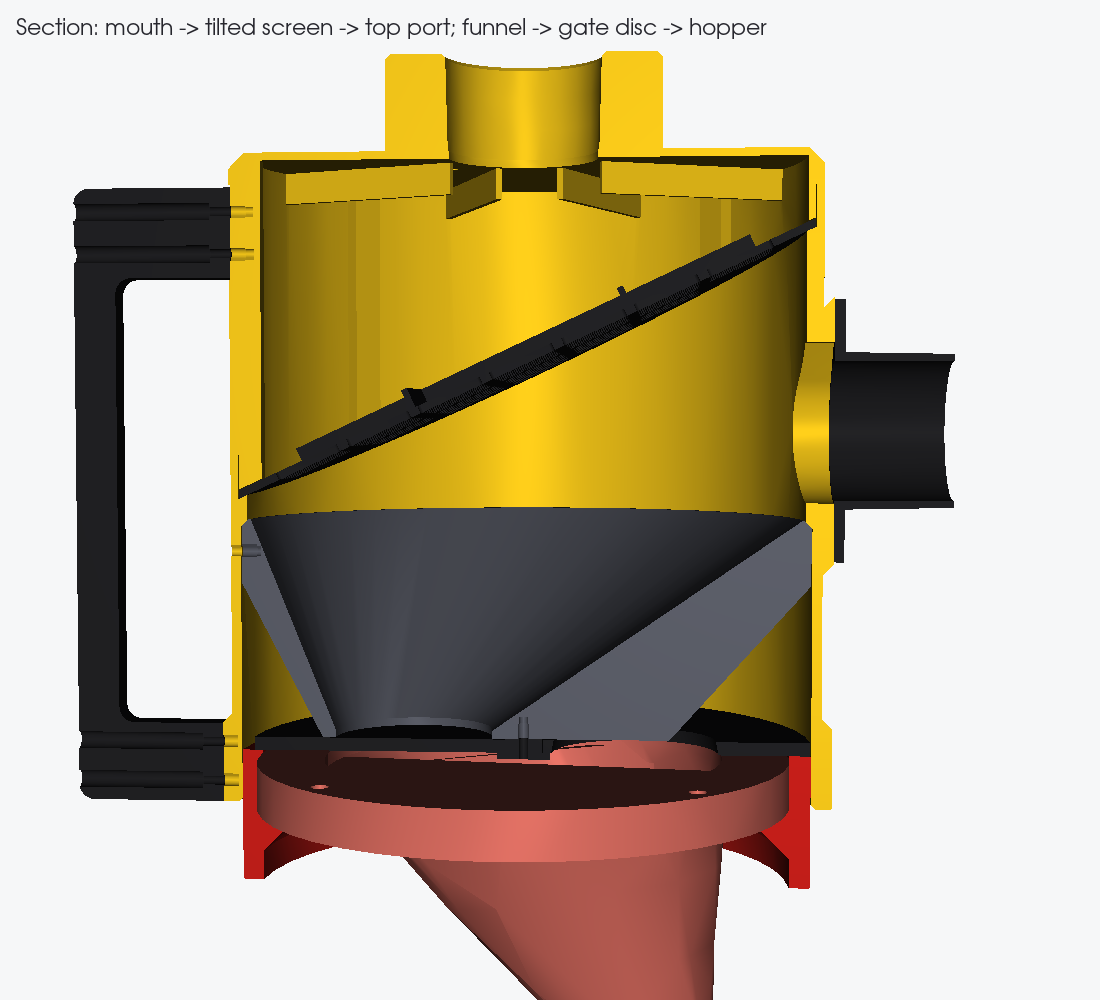
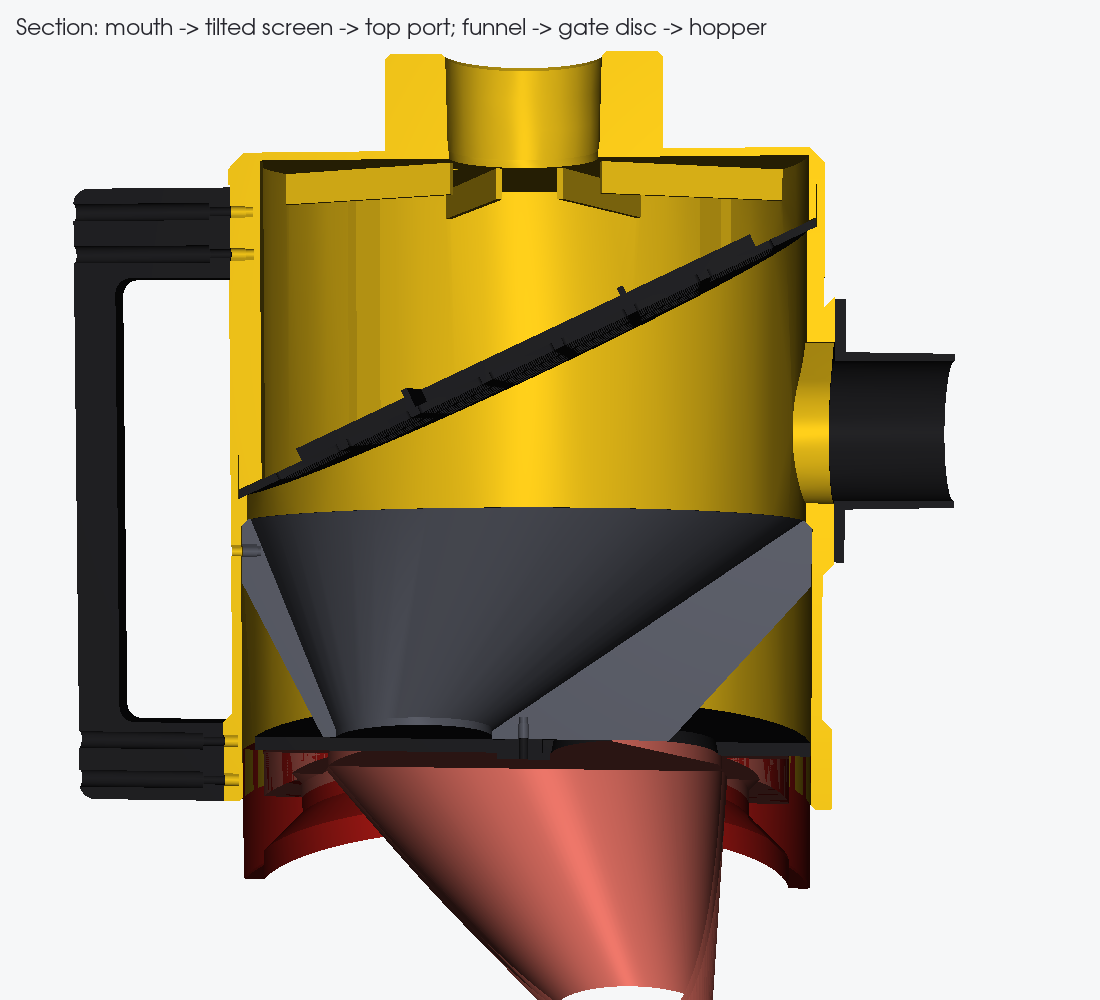
vac: how-it-works animation, mesh-based clearance check
- build_preview.py -> how_it_works.gif: 9 frames cut in half (collect, dock, half
  turn, drop into the hopper).
- The deck's 201_hopper.step is not a valid solid, so OCC booleans against it return
  garbage silently. Added dock.mesh_check (closest surface distances on meshes): pins
  0.40 from the bore walls, disc 1.00 above the hopper ring, shell 0.14 from the stud.
- Section still now cuts the stud and hopper on the mesh.

Claude-Session: https://claude.ai/code/session_01RWaNJC56SzBekscrY2E5XW

Changed region(s): [[0.2164, 0.744, 0.7418, 1.0]]

diff --git a/cad/v14/vac/build_preview.py b/cad/v14/vac/build_preview.py
@@ -1,0 +1,109 @@
+"""How the vacuum canister works: a 9-frame GIF from the real CAD, cut in half along the mouth axis.
+Frames 1-4 collect (in the hand, vac on / off), frames 5-9 feed (on the left stud: dock, half turn, drop, close).
+The loose pieces are plain coloured blocks placed by hand for the picture; nothing here is simulated.
+Run: python3 build_preview.py   -> how_it_works.gif (+ preview_frames/ PNGs)
+"""
+import math, sys
+from pathlib import Path
+import cadquery as cq
+from PIL import Image
+
+HERE = Path(__file__).resolve().parent
+sys.path.insert(0, str(HERE)); sys.path.insert(0, str(HERE.parent))
+import build_vac as b            # noqa: E402
+from common import render        # noqa: E402
+
+Y, K, GREY, HOSE, AIR = (0.96, 0.78, 0.10), (0.13, 0.13, 0.14), (0.36, 0.37, 0.41), (0.55, 0.57, 0.62), (0.25, 0.55, 0.95)
+RED, BLUE, GRN, WHT, ORG = (0.80, 0.12, 0.10), (0.10, 0.35, 0.80), (0.10, 0.55, 0.25), (0.92, 0.92, 0.90), (0.95, 0.50, 0.10)
+CUT = cq.Workplane('XY').box(600, 1200, 1400, centered=(False, True, True))        # removes the x > 0 half
+
+
+def half(s):
+    return s.cut(CUT)
+
+
+def brick(p, size=(16, 32, 10), yaw=0, tilt=0):
+    s = cq.Workplane('XY').box(*size)
+    if tilt: s = s.rotate((0, 0, 0), (1, 0, 0), tilt)
+    if yaw: s = s.rotate((0, 0, 0), (0, 0, 1), yaw)
+    return s.translate(p)
+
+
+def arrow(pts, r=2.5):
+    """air path: thin rods through pts with a cone at the end (kept just behind the cut plane)."""
+    out = None
+    for p0, p1 in zip(pts, pts[1:]):
+        d = cq.Vector(*p1) - cq.Vector(*p0)
+        seg = cq.Workplane(obj=cq.Solid.makeCylinder(r, d.Length, cq.Vector(*p0), d.normalized()))
+        out = seg if out is None else out.union(seg)
+    d = (cq.Vector(*pts[-1]) - cq.Vector(*pts[-2])).normalized()
+    return out.union(cq.Workplane(obj=cq.Solid.makeCone(3 * r, 0.0, 7 * r, cq.Vector(*pts[-1]), d)))
+
+
+def main():
+    sh, fy_lo = b.shell_lower(); fu, _ = b.funnel(); disc = b.gate_disc(); cap = b.pivot_cap()
+    scr, _, _ = b.screen(); ld, fy_hi = b.lid(); port = b.hose_port(); mp = b.mouthpiece(); hd = b.handle(fy_lo, fy_hi)
+    eyes = b.eye(1, b.EYE_CLR, b.EYE_T).union(b.eye(-1, b.EYE_CLR, b.EYE_T))
+    turning = [(sh, Y), (fu, GREY), (scr, K), (ld, Y), (port, Y), (mp, K), (hd, K), (eyes, K)]      # turns with the body
+    held = [(disc, K), (cap, K)]                                                              # stays on the pins
+
+    def canister(turn=0.0, lift=0.0):
+        its = [(half(s.rotate((0, 0, 0), (0, 0, 1), turn) if turn else s).translate((0, 0, lift)), c, 1.0) for s, c in turning]
+        return its + [(half(s).translate((0, 0, lift)), c, 1.0) for s, c in held]
+
+    # machine parts in the canister frame
+    fr, dk = Path('/home/claude/wt_frame5/cad/v14/frame/world'), Path('/home/claude/wt_deck5/cad/v14/deck/world')
+    off = (-b.ORIGIN[0], -b.ORIGIN[1], -b.ORIGIN[2])
+    ld_ = lambda p: cq.Workplane().add(cq.importers.importStep(str(p)).val()).translate(off)
+    # cut on the mesh: the hopper STEP is not a valid solid, so OCC cannot cut it
+    machine = [(b.mesh_half(ld_(fr / '130_stud_ring_left_hopper.step')), (0.78, 0.12, 0.10), 1.0), (b.mesh_half(ld_(dk / '201_hopper.step')), (0.90, 0.45, 0.40), 1.0)]
+    hose = [(half(b.ring(25.0, 28.4, b.ROOF_Z + 4, b.ROOF_Z + 85)), HOSE, 1.0)]
+    wand = [(half(cq.Workplane(obj=cq.Solid.makeCylinder(31.5, 70, cq.Vector(0, b.PAD_Y + 12, b.MOUTH_Z), cq.Vector(0, 1, 0)))
+                  .cut(cq.Workplane(obj=cq.Solid.makeCylinder(28.6, 80, cq.Vector(0, b.PAD_Y + 6, b.MOUTH_Z), cq.Vector(0, 1, 0))))), HOSE, 1.0)]
+    air = [(arrow([(-3, 185, 122), (-3, 60, 122), (-3, 5, 150), (-3, 0, 205), (-3, 0, b.ROOF_Z + 95)]), AIR, 1.0)]
+
+    X = -12    # blocks sit just behind the cut plane
+    pile = [((X, -42, 16), RED, (16, 32, 10), 20, 0), ((X - 20, -30, 26), BLUE, (16, 16, 10), 50, 10), ((X, -62, 30), GRN, (16, 32, 10), 80, 25),
+            ((X - 8, -14, 30), WHT, (16, 16, 10), 10, 30), ((X - 26, -55, 40), ORG, (8, 16, 10), 0, 0), ((X, -38, 40), BLUE, (16, 32, 10), 60, 5),
+            ((X - 10, 8, 44), RED, (16, 16, 10), 30, 34), ((X, -20, 50), GRN, (8, 16, 10), 0, 20)]
+
+    def blocks(lst, turn=0.0, lift=0.0):
+        out = []
+        for p, c, size, yaw, tilt in lst:
+            s = brick(p, size, yaw, tilt)
+            if turn: s = s.rotate((0, 0, 0), (0, 0, 1), turn)
+            out.append((s.translate((0, 0, lift)), c, 1.0))
+        return out
+
+    flying = [((X, 165, 122), RED, (16, 32, 10), 90, 0), ((X, 100, 124), BLUE, (16, 16, 10), 30, 20)]
+    glancing = [((X, -20, 124), RED, (16, 32, 10), 90, 25), ((X, -70, 96), BLUE, (16, 16, 10), 30, 60), ((X, 150, 122), GRN, (8, 16, 10), 0, 0)]
+    stuck = [((X, 20, 148), WHT, (16, 16, 10), 0, 25), ((X, -55, 113), ORG, (8, 16, 10), 0, 25)]
+    falling = [((X, 14, 105), WHT, (16, 16, 10), 20, 50), ((X, -52, 78), ORG, (8, 16, 10), 0, 70)]
+    drop = [((X, 42, -8), RED, (16, 32, 10), 20, 60), ((X - 8, 36, -38), BLUE, (16, 16, 10), 40, 30), ((X - 16, 40, -66), GRN, (16, 32, 10), 70, 70),
+            ((X - 24, 40, -98), WHT, (16, 16, 10), 0, 20), ((X - 28, 40, -128), ORG, (8, 16, 10), 0, 0)]
+    left = [((X, 30, 22), BLUE, (16, 32, 10), 60, 30), ((X - 14, 48, 30), GRN, (8, 16, 10), 0, 20), ((X, 52, 16), RED, (16, 16, 10), 30, 10)]
+
+    frames = [
+        ('1/9  Vac on. Pieces come in through the mouth with the air', canister() + hose + wand + air + blocks(flying), 'hand'),
+        ('2/9  They glance off the tilted screen and drop into the funnel', canister() + hose + wand + air + blocks(glancing) + blocks(pile[:3]), 'hand'),
+        ('3/9  Air leaves through the slots to the hose. A few light pieces cling to the screen', canister() + hose + wand + air + blocks(pile) + blocks(stuck), 'hand'),
+        ('4/9  Vac off: whatever was on the screen falls. Pull the hose and the wand off', canister() + blocks(pile) + blocks(falling), 'hand'),
+        ('5/9  Carry it by the handle and lower it onto the left stud', canister(lift=70) + machine + blocks(pile, lift=70), 'dock'),
+        ('6/9  Turn it until the 4 pins drop into the hopper screw bores. The gate is still shut', canister() + machine + blocks(pile), 'dock'),
+        ('7/9  Turn the body. The disc is held by the pins, so only the body moves (here: quarter turn)', canister(turn=-90) + machine + blocks(pile, turn=-90), 'dock'),
+        ('8/9  Half turn: the body hole is over the disc hole and the pieces drop into the hopper', canister(turn=-180) + machine + blocks(left) + blocks(drop), 'dock'),
+        ('9/9  Empty. Turn it back to close and lift it off', canister() + machine, 'dock'),
+    ]
+    out = HERE / 'preview_frames'; out.mkdir(exist_ok=True)
+    imgs = []
+    for k, (title, items, scene) in enumerate(frames, 1):
+        cam, focal = ((1050, 60, 250), (0, 25, 150)) if scene == 'hand' else ((1000, 60, 200), (0, 10, 85))
+        f = out / f'frame_{k}.png'
+        render(items, f, cam=cam, focal=focal, size=(1100, 900), title=title)
+        imgs.append(Image.open(f).convert('P', palette=Image.ADAPTIVE)); print(f.name)
+    imgs[0].save(HERE / 'how_it_works.gif', save_all=True, append_images=imgs[1:], duration=2600, loop=0)
+    print(HERE / 'how_it_works.gif')
+
+
+if __name__ == '__main__':
+    main()

diff --git a/cad/v14/vac/build_vac.py b/cad/v14/vac/build_vac.py
@@ -416,6 +416,38 @@ def on_bed(s):
     return s.translate((-(b[0] + b[3]) / 2, -(b[1] + b[4]) / 2, -b[2]))
 
 
+def tri_mesh(shape, tol=0.03):
+    import os, tempfile, trimesh
+    fd, p = tempfile.mkstemp(suffix='.stl'); os.close(fd)
+    cq.exporters.export(W(shape), p, tolerance=tol, angularTolerance=0.1)
+    m = trimesh.load(p); os.remove(p)
+    return m
+
+
+def mesh_half(shape, keep_normal=(-1, 0, 0), origin=(0, 0, 0)):
+    """half of a part as vtkPolyData, cut on the mesh. For solids OCC cannot cut: the deck's 201_hopper.step is not a
+    valid solid (isValid() False), so cut/intersect on it return garbage without raising."""
+    import numpy as np, vtk
+    from vtk.util.numpy_support import numpy_to_vtk, numpy_to_vtkIdTypeArray
+    m = tri_mesh(shape, 0.1).slice_plane(plane_origin=origin, plane_normal=keep_normal, cap=False)
+    pts = vtk.vtkPoints(); pts.SetData(numpy_to_vtk(m.vertices.astype(np.float64), deep=True))
+    ca = vtk.vtkCellArray()
+    ca.SetCells(len(m.faces), numpy_to_vtkIdTypeArray(np.hstack([np.full((len(m.faces), 1), 3), m.faces]).astype(np.int64).ravel(), deep=True))
+    pd = vtk.vtkPolyData(); pd.SetPoints(pts); pd.SetPolys(ca)
+    n = vtk.vtkPolyDataNormals(); n.SetInputData(pd); n.SetFeatureAngle(35); n.Update()
+    return n.GetOutput()
+
+
+def mesh_gap(part, target_mesh, z_max=None, z_band=None, n=60000):
+    """closest surface-to-surface distance (mm) from a canister part (machine frame) to a machine part's mesh."""
+    import numpy as np, trimesh
+    pts, _ = trimesh.sample.sample_surface(tri_mesh(part), n)
+    if z_max is not None: pts = pts[pts[:, 2] < z_max]
+    if z_band is not None: pts = pts[np.abs(pts[:, 2] - z_band) < 0.02]
+    if len(pts) == 0: return None
+    return round(float(trimesh.proximity.closest_point(target_mesh, pts)[1].min()), 2)
+
+
 def vol_common(a, b):
     c = a.intersect(b)
     return round(c.val().Volume(), 2) if c.vals() else 0.0
@@ -569,10 +601,20 @@ def main():
         mach.append((W(cq.importers.importStep(str(dk / '201_hopper.step')).val()), (0.85, 0.2, 0.2), 1.0))
         items = mach + [(s.translate(ORIGIN), c_of(n), 1.0) for n, s in body]
         render(items, HERE / 'still_1_docked.png', cam=(-1150, 950, 1200), focal=(-150, 0, 760), title=f'Docked on the left stud: machine + canister = {STUD_TOP + top_z:.0f} mm tall')
+        # independent of OCC booleans (they are not reliable on the hopper solid): closest distances on the meshes
+        hop_s, stud_s = cq.importers.importStep(str(dk / '201_hopper.step')).val(), cq.importers.importStep(str(fr / '130_stud_ring_left_hopper.step')).val()
+        hm, sm = tri_mesh(hop_s), tri_mesh(stud_s)
+        dw, sw = disc.translate(ORIGIN), sh.translate(ORIGIN)
+        res['dock']['mesh_check'] = {
+            'hopper_step_is_valid_solid': bool(hop_s.isValid()),
+            'pins_to_hopper_bore_wall': mesh_gap(dw, hm, z_max=STUD_TOP - 0.05), 'expected': round((BORE_D - PIN_D) / 2, 2),
+            'disc_underside_to_hopper_ring': mesh_gap(dw, hm, z_band=STUD_TOP), 'disc_underside_to_stud_rim': mesh_gap(dw, sm, z_band=STUD_TOP),
+            'shell_to_stud': mesh_gap(sw, sm, z_max=STUD_TOP + 8, n=150000), 'shell_to_hopper': mesh_gap(sw, hm, z_max=STUD_TOP + 8, n=150000),
+            'note': 'closest surface-to-surface distance in mm, sampled; 0.00 on the stud rim is the disc resting on it'}
+        (HERE / 'checks.json').write_text(json.dumps(res, indent=1))
         cutb = cq.Workplane('XY').box(400, 800, 900, centered=(False, True, True)).translate((0, 0, 100))
         sec = [(s.cut(cutb).translate(ORIGIN), c_of(n) if not n.startswith('251') else (0.35, 0.36, 0.40), 1.0) for n, s in body]
-        mcut = cq.Workplane('XY').box(400, 800, 900, centered=(False, True, True)).translate((ORIGIN[0], 0, 600))
-        msec = [(W(cq.importers.importStep(str(p)).val()).cut(mcut), c, 1.0) for p, c in ((fr / '130_stud_ring_left_hopper.step', (0.78, 0.12, 0.10)), (dk / '201_hopper.step', (0.9, 0.45, 0.4)))]
+        msec = [(mesh_half(stud_s, origin=ORIGIN), (0.78, 0.12, 0.10), 1.0), (mesh_half(hop_s, origin=ORIGIN), (0.9, 0.45, 0.4), 1.0)]
         render(sec + msec, HERE / 'still_2_section.png', cam=(-180 + 700, 60, 790), focal=(-180, 10, 760), size=(1100, 1000),
                title='Section: mouth -> tilted screen -> top port; funnel -> gate disc -> hopper')
     except Exception as e:

diff --git a/cad/v14/vac/README.md b/cad/v14/vac/README.md
@@ -2,7 +2,8 @@
 
 Built on `cad-v14-vac` (from `cad-v14-all`), 2026-11-18. Script `build_vac.py` reads `../interface.json` and writes
 `world/` (STEP, docked on the left stud, gate closed), `collect/` (STEP of the wand elbows on the mouth, same frame),
-`print/` (STL on the bed), `parts.json`, `checks.json` and 4 stills. Plates: `make_plates.sh` -> `../plates/P24_*`.
+`print/` (STL on the bed), `parts.json`, `checks.json` and 5 stills. `build_preview.py` -> `how_it_works.gif` (9 frames,
+cut in half: collect, dock, half turn, drop). Plates: `make_plates.sh` -> `../plates/P24_*`.
 Nothing on the machine changes.
 
 **Status: plate P24 v2, not printed. Print the two coupons (P24 file 1) before anything else.**
@@ -70,6 +71,11 @@ Bought: none except the yellow PLA. From the kit: 21 M3 heat-set inserts, 15 M3 
 ## Checks (`checks.json`, `../integration/checks.json`)
 - Docked, gate closed: **0 clashes** with the frame (studs, roof tiles, clips) and the deck (hopper). Run by
   `integration/build_integration.py` (key `V_vac_docked`); the other machine checks are unchanged and still 0.
+- **The deck's `201_hopper.step` is not a valid solid** (`isValid()` is False): OCC cut / intersect on it return garbage
+  without an error, so any boolean clash result against the hopper, from any module, proves nothing. The canister was
+  re-checked on the meshes instead (`checks.json` -> `dock.mesh_check`): pins 0.40 from the bore walls (drawn 0.40),
+  disc underside 1.00 above the hopper ring and resting on the stud rim, shell 0.14 from the stud (drawn 0.15) and
+  8.1 from the hopper.
 - 0 clashes between canister parts, closed and open. Stop screw: free from 0 to 180 deg, bumps at 6 and 174, hard
   stops beyond.
 - `plates/check_bodies.py`: all 13 print STLs are one solid. `plates/support_check.py`: 0 mm2 needing support; the only
@@ -125,6 +131,8 @@ its centre.
 ## INTERFACE REQUESTS
 None. It uses the stud OD, the stud rim and the hopper's 4 open screw bores as printed.
 
+Note for the deck chat (K): re-export `201_hopper.step` as a valid solid so the integration clash check can see it.
+
 ## Vault log lines (for the main chat; nothing was pushed to Mnemosyne)
 - 2026-11-18, claim, Bricked Sorting: vacuum canister accessory V drafted on `cad-v14-vac` (`cad/v14/vac/`, parts
   250-266, plate P24 v2, 8 files): yellow canister 224 x 283 that docks on the left stud; half-turn gate disc held by
@@ -136,5 +144,7 @@ None. It uses the stud OD, the stud rim and the hopper's 4 open screw bores as p
 - 2026-11-18, open, 3d-printing runbook: PLA large round fit drawn 0.15 per side for the 216 stud socket and the lid
   joint; coupon 265 tests 0.15 and 0.10, file the result under PLA fits. Hose cuff not measured (drawn 57.0 tip /
   58.5 base); file the coupon 266 result. Yellow PLA is not on file.
+- 2026-11-18, finding: `cad-v14-deck5` `201_hopper.step` is not a valid solid, so the integration's boolean clash
+  checks against the hopper are blind; the canister was verified on meshes instead. Deck chat should re-export it.
 - 2026-11-18, estimate: canister 1.81 kg / ~40 h plus elbows 0.18 kg / 4 h, day profile; yellow PLA 1.02 kg, black
   PETG 0.96 kg; 21 M3 inserts, 15 M3 x 8, 6 M3 x 12 from the kit.
